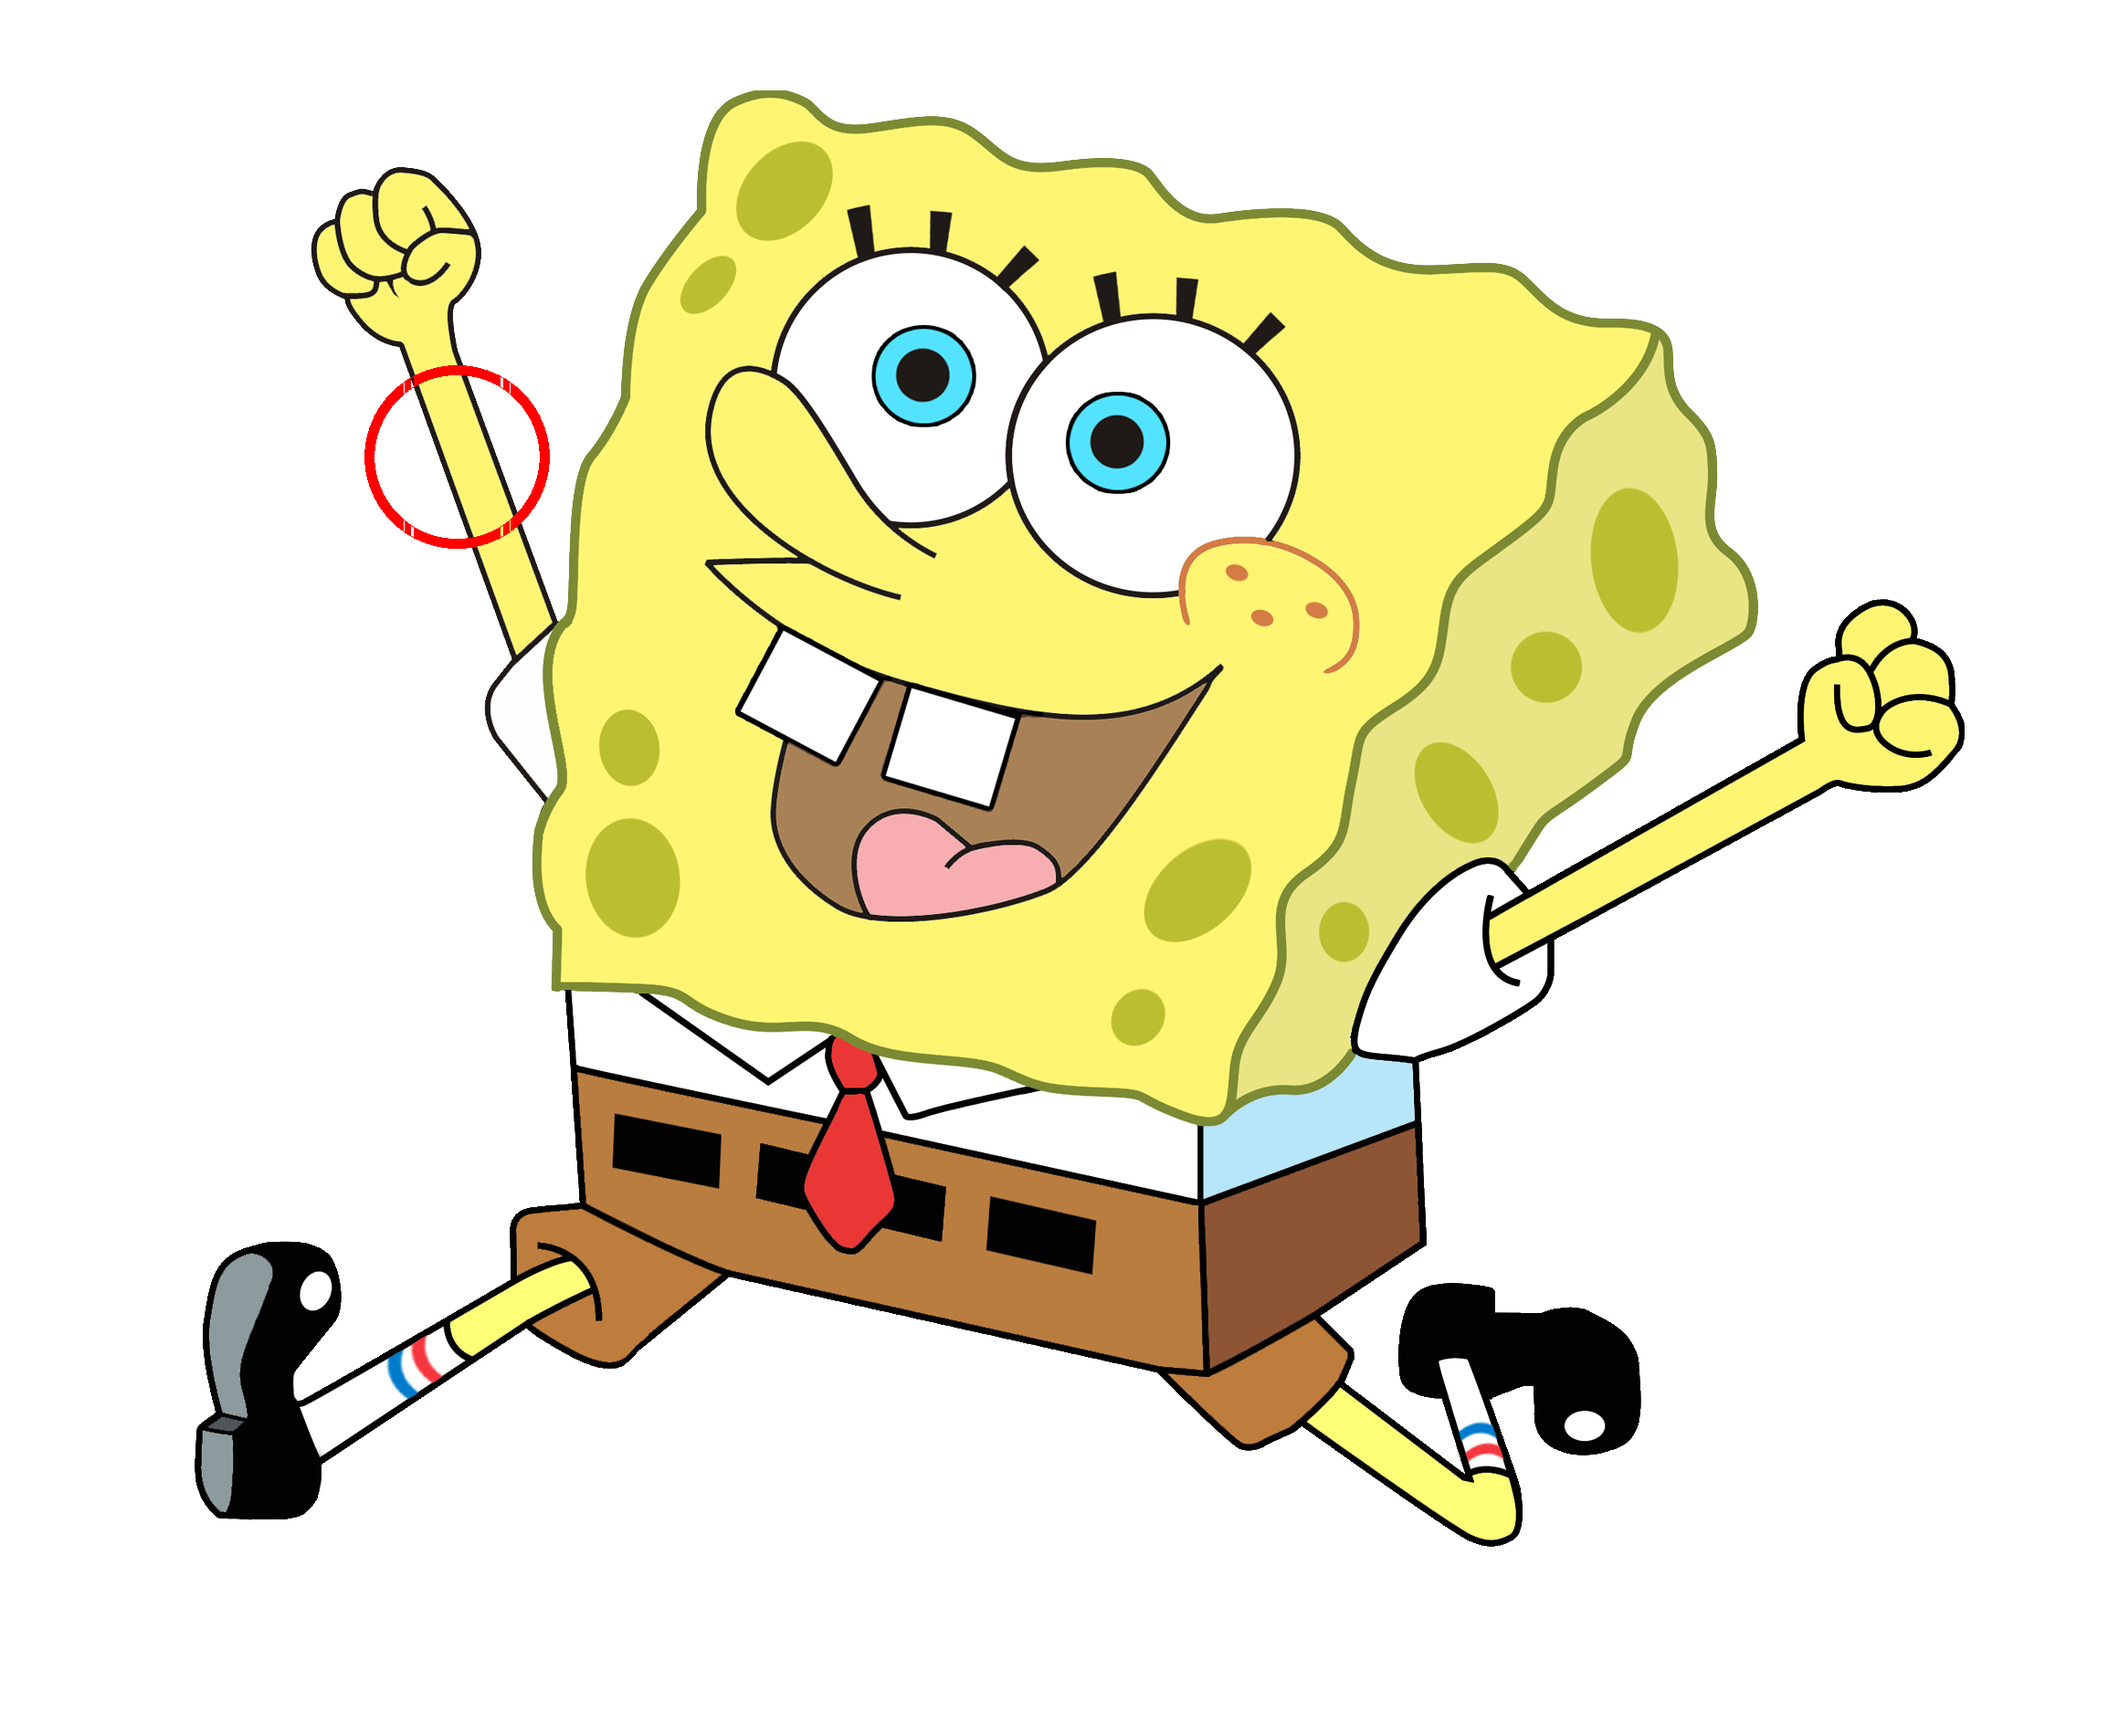
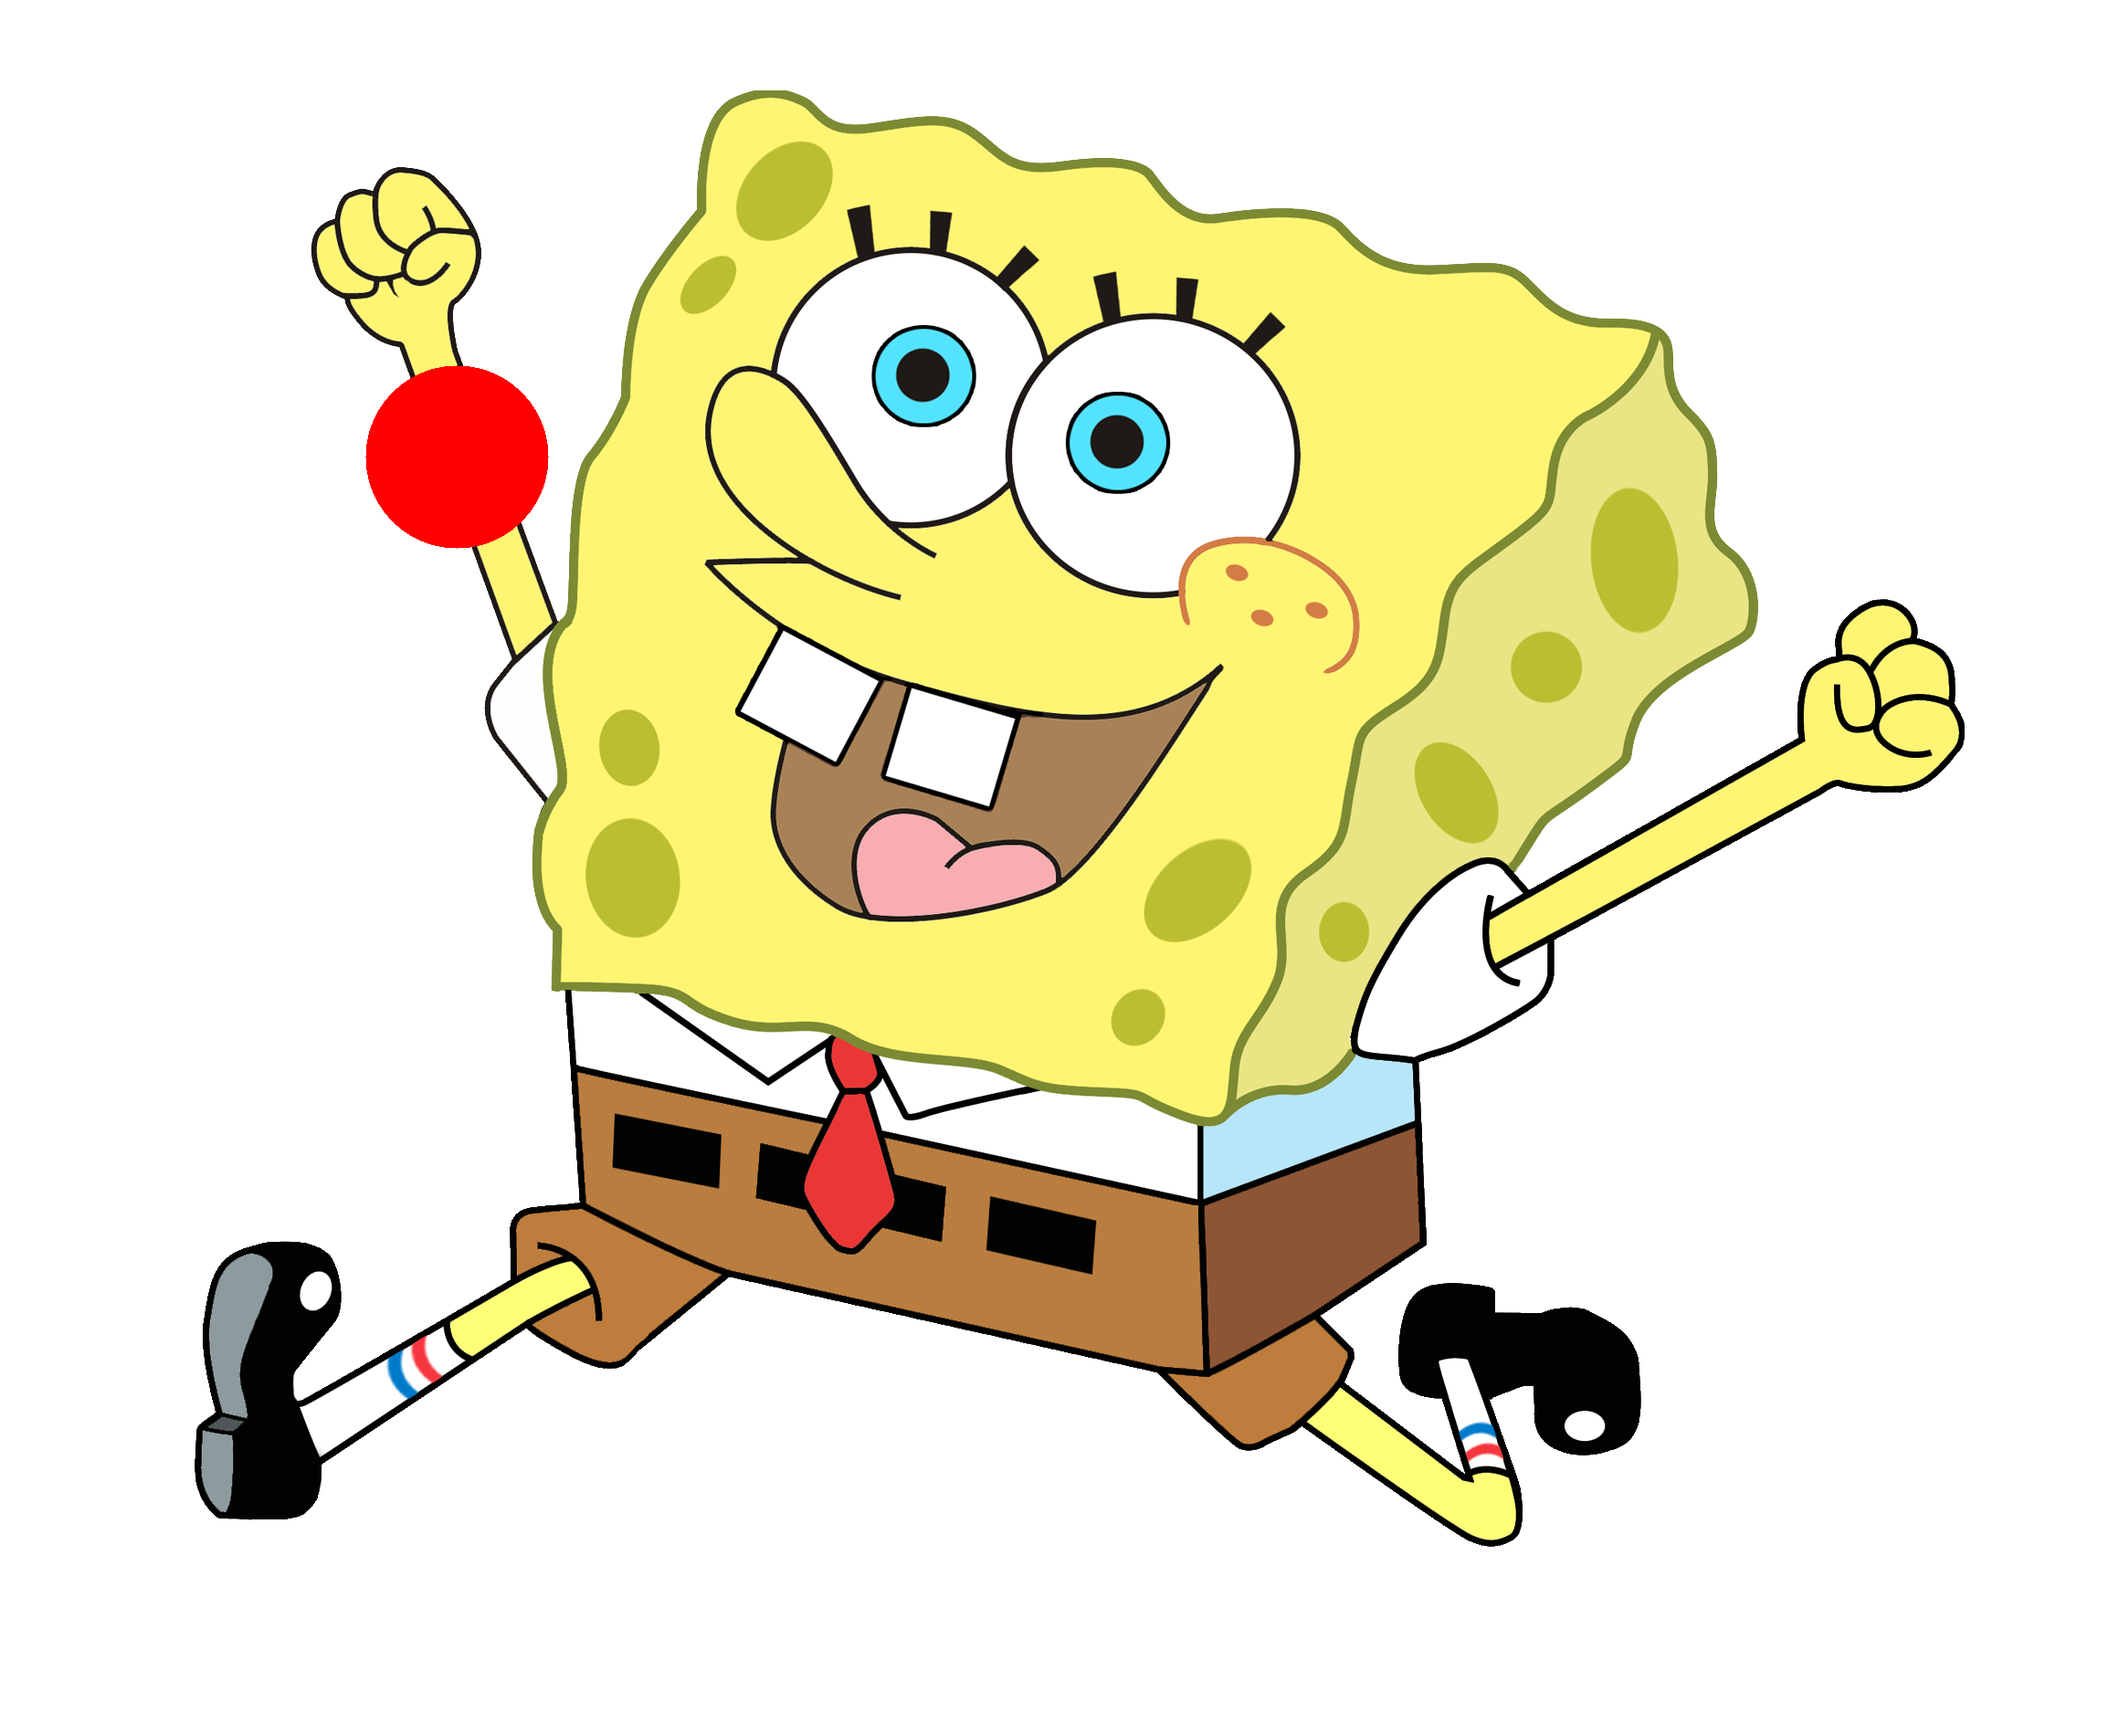
new drawCircle

Changed region(s): [[0.156, 0.2175, 0.2808, 0.3107]]

diff --git a/buf.c b/buf.c
@@ -1,211 +1,81 @@
-/*void doCopy(struct png *image, int Sx, int Sy, int Fx, int Fy){
-
-    int x, y;
-    int lenX = Fx - Sx + 1;
-    int lenY = Fy - Sy + 1;
-
-    printf("lenX = %d  lenY = %d\n", lenX, lenY);
-    
-    png_bytep *new_row_pointers =(png_bytep *) malloc(sizeof(png_bytep) * lenY);
-
-    for(y = 0; y < lenY; y++){
-        new_row_pointers[y] = (png_byte *)malloc(sizeof(png_byte *)*lenX);
-
-        png_byte *torow = new_row_pointers[y];
-        png_byte *row = image->row_pointers[Sy + y];
-
-        for (x = 0; x < lenX; x++){
-            
-            png_byte *toptr = &(torow[x*4]);
-            png_byte *ptr = &(row[(Sx + x)*4]);
-
-
-            toptr[0] = ptr[0];
-            toptr[1] = ptr[1];
-            toptr[2] = ptr[2];
-            toptr[3] = ptr[3];
-
-            
-        
-        }
-        image->row_pointers = new_row_pointers;
-        image->width = lenX;
-        image->height = lenY;
-
-    }
-}
-
-
-void doCircle(struct png *image, int x0, int y0, int radius){
-    int x = 0;
-	int y = radius;
-	int delta = 1 - 2 * radius;
-	int error = 0;
-	while(y >= 0) {
-		setPixel(image, x0 + x, y0 + y);
-		setPixel(image, x0 + x, y0 - y);
-		setPixel(image, x0 - x, y0 + y);
-		setPixel(image, x0 - x, y0 - y);
-		error = 2 * (delta + y) - 1;
-		if(delta < 0 && error <= 0) {
-			++x;
-			delta += 2 * x + 1;
-			continue;
-		}
-		error = 2 * (delta - x) - 1;
-		if(delta > 0 && error > 0) {
-			--y;
-			delta += 1 - 2 * y;
-			continue;
-		}
-		++x;
-		delta += 2 * (x - y);
-		--y;
-	}
-    
-}*/
-
-void openPNG(struct png* image, char* fileName)
+void drawCircle(struct png* image, int Cx, int Cy, int R, int width, png_byte *rgb)
 {
-
-    int x,y;
-    char heder[8];
-
-    FILE *fp = fopen(fileName, "rb");
-
-    if(!fp) printf("file is not opend\n");
-
-    fread(heder, 1, 8, fp);
-
-    /*if (!png_sig_cmp(heder, 0, 8)){
-        printf("ok\n");
-    }*/
+    int x1 = 0;
+    int y1 = R;
+    int delta1 = 1 - 2 * R;
+    int error1 = 0;
+   
+    width = (width%2 == 0?width:width-1);
+    printf("%d\n", width);
+    int x2 = 0;
+    int y2 = R-width;
+    int delta2 = 1 - 2 * (R - width);
+    int error2 = 0;
     
-    image->png_ptr = png_create_read_struct(PNG_LIBPNG_VER_STRING, NULL, NULL, NULL);
-
-    //if(!(image->png_ptr))printf("image->png_ptr read ERROR\n");
     
-    image->info_ptr = png_create_info_struct(image->png_ptr);
+   
+    while (y1 >= 0)
+    {         
+        setPixel(image,Cx + x1, Cy + y1, rgb);
+        setPixel(image,Cx + x1, Cy - y1, rgb);
+        setPixel(image,Cx - x1, Cy + y1, rgb);
+        setPixel(image,Cx - x1, Cy - y1, rgb);
 
-
-   png_init_io(image->png_ptr, fp);
-   /*
-    * read png_struct
-    */
-
-   png_set_sig_bytes(image->png_ptr, 8);
-   /*
-    * If you had previously opened the file and read any 
-    * of the signature from the beginning in order to see 
-    * if this was a PNG file, you need to let libpng know 
-    * that there are some bytes missing from the start of 
-    * the file.
-    */
-    
-    png_read_info(image->png_ptr, image->info_ptr);
-
-    image->width = png_get_image_width(image->png_ptr, image->info_ptr);
-    image->height = png_get_image_height(image->png_ptr, image->info_ptr);
-    image->color_type = png_get_color_type(image->png_ptr, image->info_ptr);
-    image->bit_depth = png_get_bit_depth(image->png_ptr, image->info_ptr);
-    
-    image->row_pointers = (png_bytep *) malloc(sizeof(png_bytep) * image->height);
-    /*
-     * количество строк
-     */
-
-    for (y = 0; y < image->height; y++)
-        image->row_pointers[y] = (png_byte *) malloc(png_get_rowbytes(image->png_ptr, image->info_ptr));
-    /* 
-     * выделение памяти для хранения подписи строки
-     */
-    png_read_image(image->png_ptr, image->row_pointers);
-
-    fclose(fp);
-}
-
-void doNewFile(struct png* image, char* fileName)
-{
-
-    int x, y;
-
-    FILE *fp = fopen(fileName, "wb");
-    
-    if(!fp) printf("file is not open {doNewFile}\n");
-
-    image->png_ptr = png_create_write_struct(PNG_LIBPNG_VER_STRING, NULL, NULL, NULL);
-
-
-    image->info_ptr = png_create_info_struct(image->png_ptr);
-
-    png_init_io(image->png_ptr, fp);
-
-
-    /* write header */
-
-
-    png_set_IHDR(image->png_ptr, image->info_ptr, image->width, image->height,
-                 image->bit_depth, image->color_type, PNG_INTERLACE_NONE,
-                 PNG_COMPRESSION_TYPE_BASE, PNG_FILTER_TYPE_BASE);
-
-    png_write_info(image->png_ptr, image->info_ptr);
-
-
-    /* write bytes */
-
-    png_write_image(image->png_ptr, image->row_pointers);
-
-    png_write_end(image->png_ptr, NULL);
-
-    /* cleanup heap allocation */
-    for (y = 0; y < image->height; y++)
-        free(image->row_pointers[y]);
-    free(image->row_pointers);
-
-    fclose(fp);
-
-}
-
-
-void doCopy(struct png* image, int Sx, int Sy, int Fx, int Fy){
-
-    int x, y;
-
-    int lenY = Fy - Sy +1;
-    int lenX = Fx - Sx +1;
-
-    png_bytep *new_row_pointers = (png_bytep *)calloc(sizeof(png_bytep), lenY);
-
-    for(y = 0; y < lenY; y++)
-    {
+        setPixel(image,Cx + x2, Cy + y2, rgb);
+        setPixel(image,Cx + x2, Cy - y2, rgb);
+        setPixel(image,Cx - x2, Cy + y2, rgb);
+        setPixel(image,Cx - x2, Cy - y2, rgb);
        
-        new_row_pointers[y] = (png_byte *)calloc(sizeof(png_byte*), lenX + (4 - lenX/4));
-        png_byte* new_row = new_row_pointers[y];
-        png_byte* row = image->row_pointers[Sy + y];
-
-        for(x = 0; x < lenX; x++)
+        for(int i = x1; i >= x2; i--)
         {
-            
-            png_byte *new_ptr = &(new_row[x*4]);
-            png_byte *ptr = &(row[(Sx + x)*4]);
+            for(int j = y1; j >= y2; j--)
+            {
+                setPixel(image, Cx + i, Cy + j, rgb);
+                setPixel(image, Cx + i, Cy - j, rgb);
+                setPixel(image, Cx - i, Cy + j, rgb);
+                setPixel(image, Cx - i, Cy - j, rgb);
+            }
+                  
+        }
+       
+        error1 = 2 * (delta1 + y1) - 1;
+       
+        if ((delta1 < 0) && (error1 <= 0))
+        {
+            delta1 += 2 * ++x1 + 1;
+            goto next;
+        }
+       
+        if ((delta1 > 0) && (error1 > 0))
+        {
+            delta1 -= 2 * --y1 + 1;
+            goto next;
+        }
+       
+        delta1 += 2 * (++x1 - y1--);
 
-           new_ptr[3] = 245;
-            new_ptr[2] = 145;
-            new_ptr[1] = 95;
-            new_ptr[0] = 48;
+        next:
 
-           /* ptr[0] = ptr[1];
-            ptr[1] = ptr[2];
-            ptr[2] = ptr[3];*/
-            //printf("{%d = %d} ", x*4, (Sx + x)*4);
+        
             
+        if( y2 >= 0){
+            error2 = 2 * (delta2 + y2) - 1;
+       
+            if ((delta2 < 0) && (error2 <= 0)){
+                delta2 += 2 * ++x2 + 1;
+                continue;
+            }
+       
+            if ((delta2 > 0) && (error2 > 0))
+            {
+                delta2 -= 2 * --y2 + 1;
+                continue;
+            }
+
+            delta2 += 2 * (++x2 - y2--);
+
         }
 
-       // image->row_pointers = new_row_pointers;
-        image->width = lenX;
-
-        //image->info_ptr->width = lenX;
-
-        image->height = lenY;
     }
+      
 }

diff --git a/myProg.c b/myProg.c
@@ -224,86 +224,27 @@ void setPixel(struct png *image, int x, int y, char *rgb)
 	ptr[3] = rgb[3]; 
 }
 
-void drawCircle(struct png* image, int Cx, int Cy, int R, int width, png_byte *rgb)
+void drawCircle(struct png* image, int Sx, int Sy, int R, int width, png_byte *rgb)
 {
-    int x1 = 0;
-    int y1 = R;
-    int delta1 = 1 - 2 * R;
-    int error1 = 0;
-   
-    width = (width%2 == 0?width:width-1);
-    printf("%d\n", width);
-    int x2 = 0;
-    int y2 = R-width;
-    int delta2 = 1 - 2 * (R - width);
-    int error2 = 0;
-    
-    
-   
-    while (y1 >= 0)
-    {         
-        setPixel(image,Cx + x1, Cy + y1, rgb);
-        setPixel(image,Cx + x1, Cy - y1, rgb);
-        setPixel(image,Cx - x1, Cy + y1, rgb);
-        setPixel(image,Cx - x1, Cy - y1, rgb);
+    int Ex = Sx + R - 1;
+    int Ey = Sy + R - 1;
+    int i,j;
 
-        setPixel(image,Cx + x2, Cy + y2, rgb);
-        setPixel(image,Cx + x2, Cy - y2, rgb);
-        setPixel(image,Cx - x2, Cy + y2, rgb);
-        setPixel(image,Cx - x2, Cy - y2, rgb);
-       
-        for(int i = x1; i >= x2; i--)
-        {
-            for(int j = y1; j >= y2; j--)
+    for(i = 0; i <= R; i++)
+    {
+        for(j = 0; j <= R; j++){
+
+            if( (i*i + j*j) <= R*R && (i*i + j*j) >= (R -width)*(R - width))
             {
-                setPixel(image, Cx + i, Cy + j, rgb);
-                setPixel(image, Cx + i, Cy - j, rgb);
-                setPixel(image, Cx - i, Cy + j, rgb);
-                setPixel(image, Cx - i, Cy - j, rgb);
+               
+                setPixel(image, Sx + i, Sy + j, rgb);
+                setPixel(image, Sx + i, Sy - j, rgb);
+                setPixel(image, Sx - i, Sy + j, rgb);
+                setPixel(image, Sx - i, Sy - j, rgb);
             }
-                  
         }
-       
-        error1 = 2 * (delta1 + y1) - 1;
-       
-        if ((delta1 < 0) && (error1 <= 0))
-        {
-            delta1 += 2 * ++x1 + 1;
-            goto next;
-        }
-       
-        if ((delta1 > 0) && (error1 > 0))
-        {
-            delta1 -= 2 * --y1 + 1;
-            goto next;
-        }
-       
-        delta1 += 2 * (++x1 - y1--);
-
-        next:
-
-        
-            
-        if( y2 >= 0){
-            error2 = 2 * (delta2 + y2) - 1;
-       
-            if ((delta2 < 0) && (error2 <= 0)){
-                delta2 += 2 * ++x2 + 1;
-                continue;
-            }
-       
-            if ((delta2 > 0) && (error2 > 0))
-            {
-                delta2 -= 2 * --y2 + 1;
-                continue;
-            }
-
-            delta2 += 2 * (++x2 - y2--);
-
-        }
-
-    }
-      
+    } 
+    
 }
 
 void doCopy(struct png *image, int Sx, int Sy, int Fx, int Fy)
